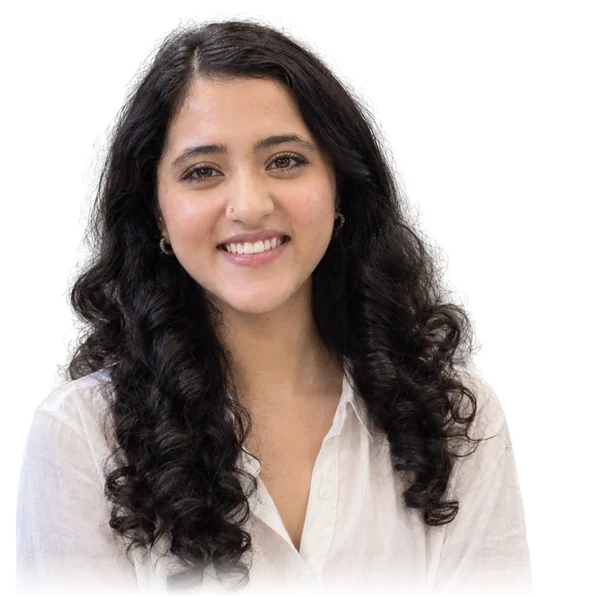
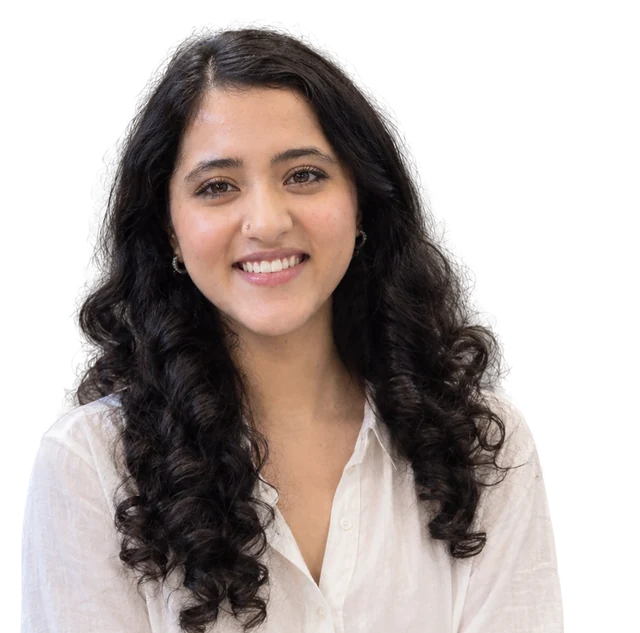
Draft: minimal two-tone hero with facts row; portrait in About as a clean tile
Claude-Session: https://claude.ai/code/session_01Ya3eM2zX6UMuFkgPekrhcJ

diff --git a/styles.css b/styles.css
@@ -197,23 +197,22 @@ a { color: inherit; text-decoration: none; }
 
 /* ---- Hero ------------------------------------------------------------ */
 .hero { padding-block: clamp(40px, 7vw, 104px) clamp(40px, 6vw, 88px); }
-.hero h1 { font-family: var(--f-serif); font-weight: 400; font-size: clamp(1.85rem, 1.3rem + 1.7vw, 2.6rem); line-height: 1.18; letter-spacing: -0.006em; color: var(--ink); max-width: 18ch; text-wrap: balance; margin: 0; }
-.hero__lede { font-size: var(--step-0); line-height: 1.6; color: var(--muted); max-width: 42ch; margin-top: 16px; }
-.hero__cta { display: flex; flex-wrap: wrap; align-items: center; gap: 8px 28px; margin-top: 24px; font-weight: 500; }
+.hero h1 { font-family: var(--f-serif); font-weight: 400; font-size: clamp(2rem, 1.2rem + 2.4vw, 2.9rem); line-height: 1.16; letter-spacing: -0.008em; color: var(--ink); max-width: 28ch; text-wrap: balance; margin: 0; }
+.hero h1 .hi, .hero h1 .hw:first-child { display: block; color: var(--muted); }
+.hero__cta { display: flex; flex-wrap: wrap; align-items: center; gap: 8px 28px; margin-top: clamp(28px, 3.4vw, 40px); font-weight: 500; }
 .hero__cta .btn { display: inline-flex; align-items: center; gap: 10px; min-height: 48px; padding: 0 22px; border: 1px solid var(--ink); border-radius: 999px; color: var(--ink); transition: background .2s, color .2s; }
 .hero__cta .btn:hover { background: var(--pop); border-color: var(--pop); color: #0F0F0F; }
 .hero__cta .ul { display: inline-flex; align-items: center; min-height: 44px; background: linear-gradient(currentColor, currentColor) 0 calc(50% + .8em) / 0 1px no-repeat; background-origin: content-box; transition: background-size .25s; }
 .hero__cta .ul:hover { background-size: 100% 1px; }
-.halo { position: relative; width: min(100%, 240px); margin-top: 28px; cursor: default; }
-.halo::before { content: ""; position: absolute; left: 50%; top: 46%; width: 78%; aspect-ratio: 1; border-radius: 50%; background: var(--pop); transform: translate(calc(-50% + var(--dx, 0px)), calc(-50% + var(--dy, 0px))); }
-.halo img { position: relative; display: block; width: 100%; height: auto; filter: grayscale(1) contrast(1.06); transform: translate(var(--px, 0px), var(--py, 0px)); transition: filter .5s ease; }
+.hero__facts { margin-top: clamp(56px, 8vw, 104px); display: grid; gap: 0; }
+.hero__facts dl, .about__facts dl { border-top: 1px solid var(--line-2); padding: 16px 0 20px; margin: 0; }
+.hero__facts dt, .about__facts dt { font-size: var(--step--1); color: var(--muted); }
+.hero__facts dd, .about__facts dd { margin: 4px 0 0; color: var(--ink); font-size: var(--step-0); line-height: 1.45; }
+@media (min-width: 760px) { .hero__facts { grid-template-columns: repeat(3, 1fr); gap: 0 clamp(24px, 4vw, 56px); } }
+.about__facts { margin-top: 28px; }
+.halo { position: relative; width: min(100%, 220px); aspect-ratio: 4 / 5; margin-top: 28px; background: var(--pop); border-radius: 4px; overflow: hidden; cursor: default; }
+.halo img { position: absolute; left: -6%; bottom: 0; display: block; width: 112%; max-width: none; height: auto; filter: grayscale(1) contrast(1.06); transform: translateX(var(--px, 0px)); transition: filter .5s ease; }
 .halo:hover img, .halo.on img { filter: grayscale(0); }
-@media (min-width: 900px) { .hero h1 { max-width: 24ch; } .hero__lede { max-width: 52ch; } }
-.hero__facts { margin-top: clamp(40px, 6vw, 72px); display: grid; grid-template-columns: repeat(2, 1fr); gap: 0 24px; }
-.hero__facts dl { border-top: 1px solid var(--line-2); padding: 14px 0 16px; margin: 0; }
-.hero__facts dt { font-size: var(--step--1); letter-spacing: .08em; text-transform: uppercase; color: var(--muted); font-weight: 500; }
-.hero__facts dd { margin: 4px 0 0; color: var(--ink); font-weight: 500; font-size: var(--step-0); line-height: 1.4; }
-@media (min-width: 900px) { .hero__facts { grid-template-columns: repeat(4, 1fr); gap: 0 32px; } }
 
 /* word-by-word headline reveal (site.js) */
 .hw { display: inline-block; vertical-align: bottom; }

diff --git a/index.html b/index.html
@@ -22,7 +22,7 @@
 <link rel="preload" href="fonts/newsreader-italic.woff2" as="font" type="font/woff2" crossorigin>
 <link rel="preload" href="fonts/inter.woff2" as="font" type="font/woff2" crossorigin>
 <script>try{var t=localStorage.getItem('theme');if(t)document.documentElement.setAttribute('data-theme',t)}catch(e){}document.documentElement.classList.add('js')</script>
-<link rel="stylesheet" href="styles.css?v=25">
+<link rel="stylesheet" href="styles.css?v=29">
 </head>
 <body>
 <a class="skip" href="#main">Skip to content</a>
@@ -44,16 +44,12 @@
 
   <!-- HERO -->
   <section class="hero wrap" id="top">
-    <div class="hero__text">
-      <h1>I design enterprise software that turns complex data into <span class="hl">decisions</span> people trust<span class="per">.</span></h1>
-      <p class="hero__lede">Hi, I'm Pranvi. Welcome to my portfolio: five case studies, each with the problem, the process and the outcome.</p>
-      <div class="hero__cta"><a class="btn" href="#work">See selected work <span aria-hidden="true">↓</span></a><a class="ul" href="#contact">Get in touch</a></div>
-    </div>
+    <h1><span class="hi">Hi, I'm Pranvi.</span> I design enterprise software that turns complex data into <span class="hl">decisions</span> people trust<span class="per">.</span></h1>
+    <div class="hero__cta"><a class="btn" href="#work">See selected work <span aria-hidden="true">↓</span></a><a class="ul" href="#contact">Get in touch</a></div>
     <div class="hero__facts">
-      <dl><dt>Role</dt><dd>Senior UX Designer, SHL</dd></dl>
+      <dl><dt>Now</dt><dd>Senior UX Designer at SHL</dd></dl>
       <dl><dt>Experience</dt><dd>7 years in B2B SaaS</dd></dl>
       <dl><dt>Focus</dt><dd>Enterprise UX, design systems, AI-assisted tools</dd></dl>
-      <dl><dt>Certified</dt><dd>W3C WAI Accessibility, Google UX Design</dd></dl>
     </div>
   </section>
 
@@ -114,7 +110,7 @@
     <div class="about">
       <div class="a1" data-reveal>
         <h2>About</h2>
-        <div class="halo" role="img" aria-label="Portrait of Pranvi Dandriyal"><img src="images/pranvi-cutout.webp" alt="" width="600" height="597" loading="lazy" decoding="async"></div>
+        <div class="halo" role="img" aria-label="Portrait of Pranvi Dandriyal"><img src="images/pranvi-cutout.webp" alt="" width="640" height="633" loading="lazy" decoding="async"></div>
       </div>
       <div class="a2" data-reveal>
         <p class="about__lead">I make complex, data-heavy software feel <span class="hl">obvious</span>, the kind of tools people use all day and shouldn't have to think about.</p>
@@ -123,6 +119,7 @@
           <p>I start from research and evidence, look for the systemic problem under the surface request, and defend design decisions with data rather than taste. I care about accessibility as a baseline, not a feature.</p>
           <p>Before SHL I built and mentored a small design team, which taught me that the best design work is rarely a solo act, it's alignment, clarity, and getting a room to agree on the real problem.</p>
         </div>
+        <div class="about__facts"><dl><dt>Certified</dt><dd>W3C WAI Accessibility, Google UX Design</dd></dl></div>
       </div>
     </div>
   </section>

diff --git a/bob-the-builder.html b/bob-the-builder.html
@@ -17,7 +17,7 @@
 <link rel="preload" href="fonts/newsreader-italic.woff2" as="font" type="font/woff2" crossorigin>
 <link rel="preload" href="fonts/inter.woff2" as="font" type="font/woff2" crossorigin>
 <script>try{var t=localStorage.getItem('theme');if(t)document.documentElement.setAttribute('data-theme',t)}catch(e){}document.documentElement.classList.add('js')</script>
-<link rel="stylesheet" href="styles.css?v=25">
+<link rel="stylesheet" href="styles.css?v=29">
 <style>
 .jr{display:grid;grid-template-columns:repeat(auto-fit,minmax(128px,1fr));gap:12px;counter-reset:j;margin:0;padding:0;list-style:none}
 .jr li{min-width:0;counter-increment:j;position:relative;border:1px solid var(--line-2);border-radius:10px;background:var(--paper);padding:16px 16px 14px}

diff --git a/talent-intelligence-design-system.html b/talent-intelligence-design-system.html
@@ -17,7 +17,7 @@
 <link rel="preload" href="fonts/newsreader-italic.woff2" as="font" type="font/woff2" crossorigin>
 <link rel="preload" href="fonts/inter.woff2" as="font" type="font/woff2" crossorigin>
 <script>try{var t=localStorage.getItem('theme');if(t)document.documentElement.setAttribute('data-theme',t)}catch(e){}document.documentElement.classList.add('js')</script>
-<link rel="stylesheet" href="styles.css?v=25">
+<link rel="stylesheet" href="styles.css?v=29">
 <script>
   // Draft view: append ?draft to the URL to reveal the asset slots still waiting on material.
   if (/[?&]draft\b/.test(location.search)) document.documentElement.classList.add('draft');

diff --git a/talentcentral-project-groups.html b/talentcentral-project-groups.html
@@ -17,7 +17,7 @@
 <link rel="preload" href="fonts/newsreader-italic.woff2" as="font" type="font/woff2" crossorigin>
 <link rel="preload" href="fonts/inter.woff2" as="font" type="font/woff2" crossorigin>
 <script>try{var t=localStorage.getItem('theme');if(t)document.documentElement.setAttribute('data-theme',t)}catch(e){}document.documentElement.classList.add('js')</script>
-<link rel="stylesheet" href="styles.css?v=25">
+<link rel="stylesheet" href="styles.css?v=29">
 </head>
 <body data-case="talentcentral">
 <a class="skip" href="#context">Skip to case study</a>

diff --git a/interview-professional.html b/interview-professional.html
@@ -17,7 +17,7 @@
 <link rel="preload" href="fonts/newsreader-italic.woff2" as="font" type="font/woff2" crossorigin>
 <link rel="preload" href="fonts/inter.woff2" as="font" type="font/woff2" crossorigin>
 <script>try{var t=localStorage.getItem('theme');if(t)document.documentElement.setAttribute('data-theme',t)}catch(e){}document.documentElement.classList.add('js')</script>
-<link rel="stylesheet" href="styles.css?v=25">
+<link rel="stylesheet" href="styles.css?v=29">
 </head>
 <body data-case="interview">
 <a class="skip" href="#context">Skip to case study</a>
